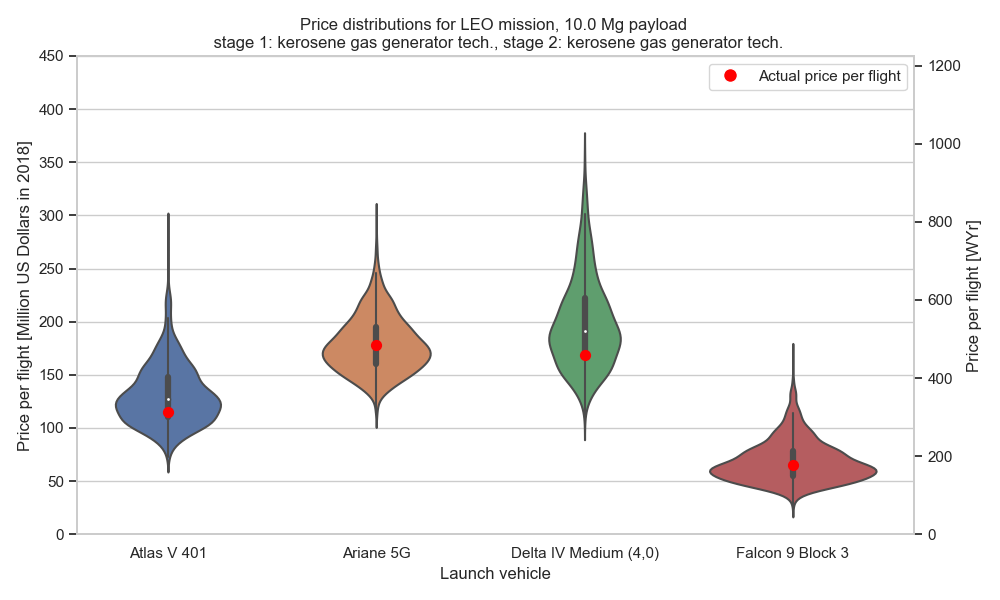
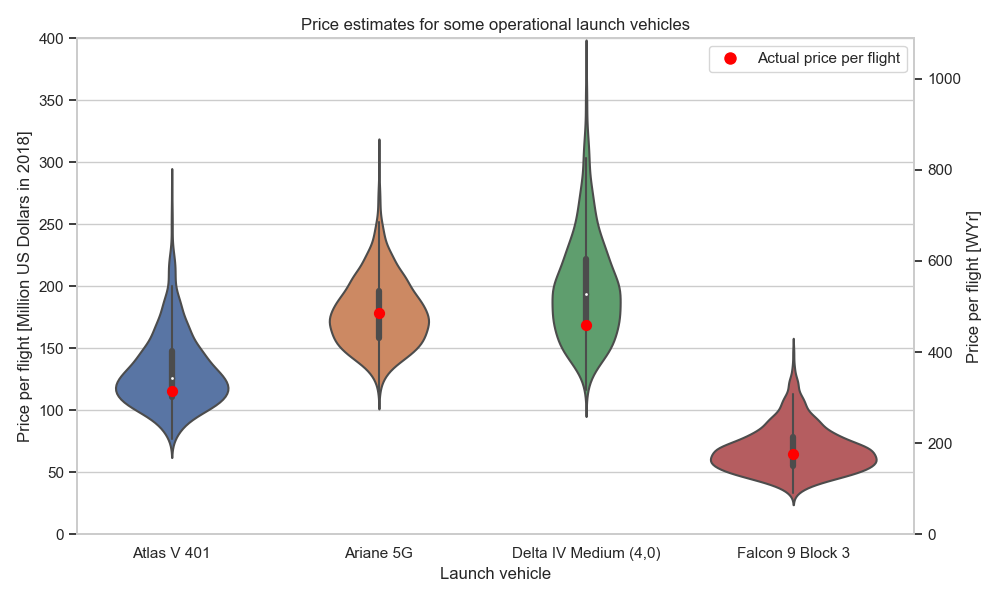
Fix title on cost model validation plot.

diff --git a/lvreuse/analysis/cost/strategy_cost_models.py b/lvreuse/analysis/cost/strategy_cost_models.py
@@ -936,10 +936,10 @@ def demo():
     sns.set(style='whitegrid')
     data=price_per_flight.multiply(wyr_conversion)
     ax = sns.violinplot(data=data)
-    ax.set_ylim(0, 450)
+    ax.set_ylim(0, 400)
     ax.set_ylabel('Price per flight [Million US Dollars in 2018]')
 
-    plt.title('Price distributions for LEO mission, 10.0 Mg payload \n stage 1: kerosene gas generator tech., stage 2: kerosene gas generator tech.')
+    plt.title('Price estimates for some operational launch vehicles')
     plt.xlabel('Launch vehicle')
 
     plt.scatter(0, 314*wyr_conversion, s=50, color='red', zorder=10) # atlas
@@ -949,7 +949,7 @@ def demo():
 
     ax1 = ax.twinx()
     ax1.set_ylabel('Price per flight [WYr]')
-    ax1.set_ylim(0, 450/wyr_conversion)
+    ax1.set_ylim(0, ax.get_ylim()[1]/wyr_conversion)
     ax1.grid(False)
 
     legend_item = [Line2D([0], [0], marker='o', color='w', label='Actual price per flight',
